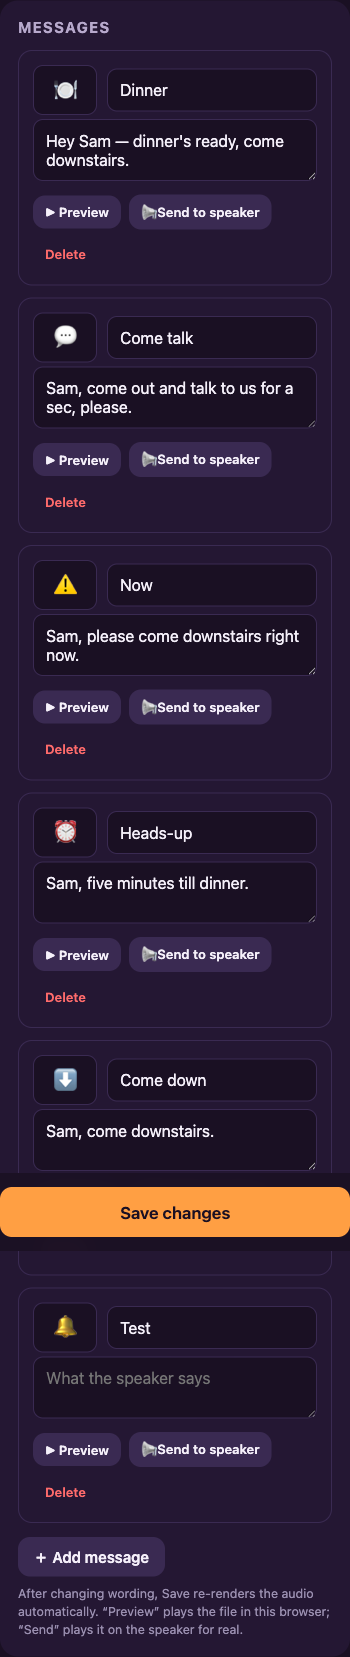
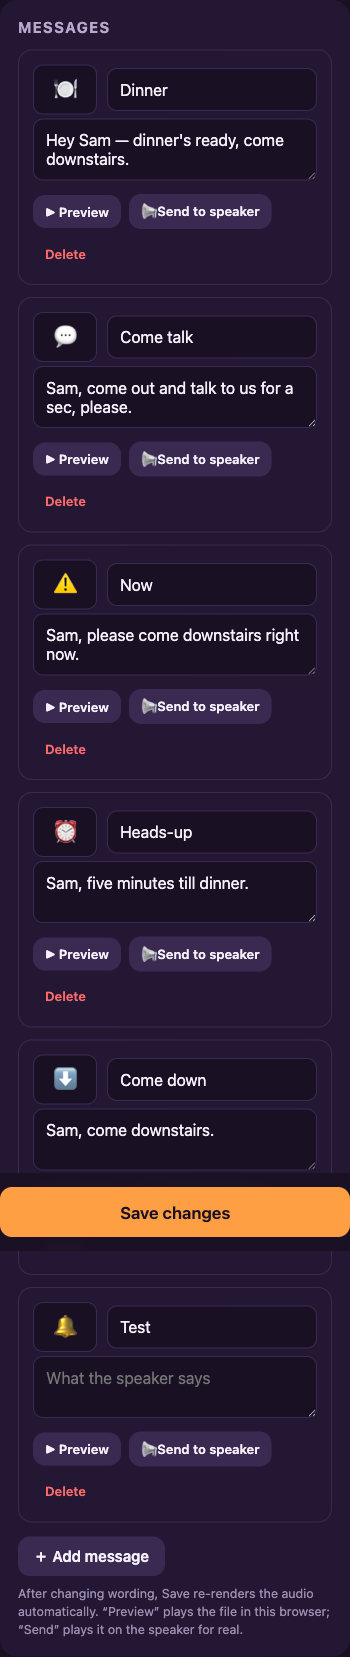
Brand as the Google Home broadcast app for families; piper fixes
- README/manifest/meta: family-broadcast positioning, refreshed screenshots
- Fix piper voice download flag in Dockerfile (--download-dir)
- Detect piper installed in the app's venv; default model from ./voices/

diff --git a/static/index.html b/static/index.html
@@ -4,6 +4,7 @@
   <meta charset="utf-8">
   <meta name="viewport" content="width=device-width, initial-scale=1, viewport-fit=cover, user-scalable=no">
   <title>Holler</title>
+  <meta name="description" content="The Google Home broadcast app for families — one tap, loud, impossible to ignore.">
   <meta name="theme-color" content="#1a1023">
   <link rel="manifest" href="/manifest.json">
   <link rel="apple-touch-icon" href="/icons/icon-192.png">

diff --git a/app/audio_render.py b/app/audio_render.py
@@ -13,6 +13,7 @@ import os
 import shutil
 import struct
 import subprocess
+import sys
 import tempfile
 import wave
 from pathlib import Path
@@ -88,14 +89,26 @@ def make_chime() -> list[int]:
 # ---- Speech engines -----------------------------------------------------
 
 def default_piper_model() -> str:
-    return os.environ.get("HOLLER_PIPER_MODEL", "")
+    env = os.environ.get("HOLLER_PIPER_MODEL", "")
+    if env:
+        return env
+    local = sorted((Path(__file__).resolve().parent.parent / "voices").glob("*.onnx"))
+    return str(local[0]) if local else ""
+
+
+def _piper_bin() -> str | None:
+    found = shutil.which("piper")
+    if found:
+        return found
+    venv_piper = Path(sys.executable).with_name("piper")  # same venv as the app
+    return str(venv_piper) if venv_piper.exists() else None
 
 
 def available_engines() -> list[str]:
     engines = []
     if shutil.which("say"):
         engines.append("say")
-    if shutil.which("piper"):
+    if _piper_bin():
         engines.append("piper")
     return engines
 
@@ -114,10 +127,13 @@ def _speak_piper(text: str, model: str, out: Path) -> None:
     model = model or default_piper_model()
     if not model:
         raise RenderError("piper engine needs a voice model (tts.piper_model)")
+    piper = _piper_bin()
+    if not piper:
+        raise RenderError("piper is not installed")
     with tempfile.TemporaryDirectory() as td:
         raw = Path(td) / "s.wav"
         subprocess.run(
-            ["piper", "--model", model, "--output_file", str(raw)],
+            [piper, "--model", model, "--output_file", str(raw)],
             input=text.encode(), check=True, capture_output=True,
         )
         _to_standard_wav(raw, out)

diff --git a/README.md b/README.md
@@ -1,8 +1,14 @@
 # Holler 📢
 
-One tap on a parent's phone → attention chime + spoken message on the kid's
-Google/Nest speaker, **forced loud**, interrupting whatever they're playing.
-One-way by design. LAN-only. No cloud, no accounts, no data leaves the house.
+**The Google Home broadcast app for families.**
+
+One tap on a parent's phone → attention chime + spoken message on the
+Google/Nest speakers you choose, **forced loud**, interrupting whatever's
+playing. Call the kids to dinner, get someone out of their room, announce
+"we're leaving in five" — and actually be heard over headphones-off music and
+closed doors, where Google's built-in broadcast (fixed, polite volume) gets
+ignored. One-way by design. LAN-only, self-hosted: no cloud, no accounts, no
+data leaves the house.
 
 | The app | Admin: speaker & volume | Admin: edit messages |
 |---|---|---|